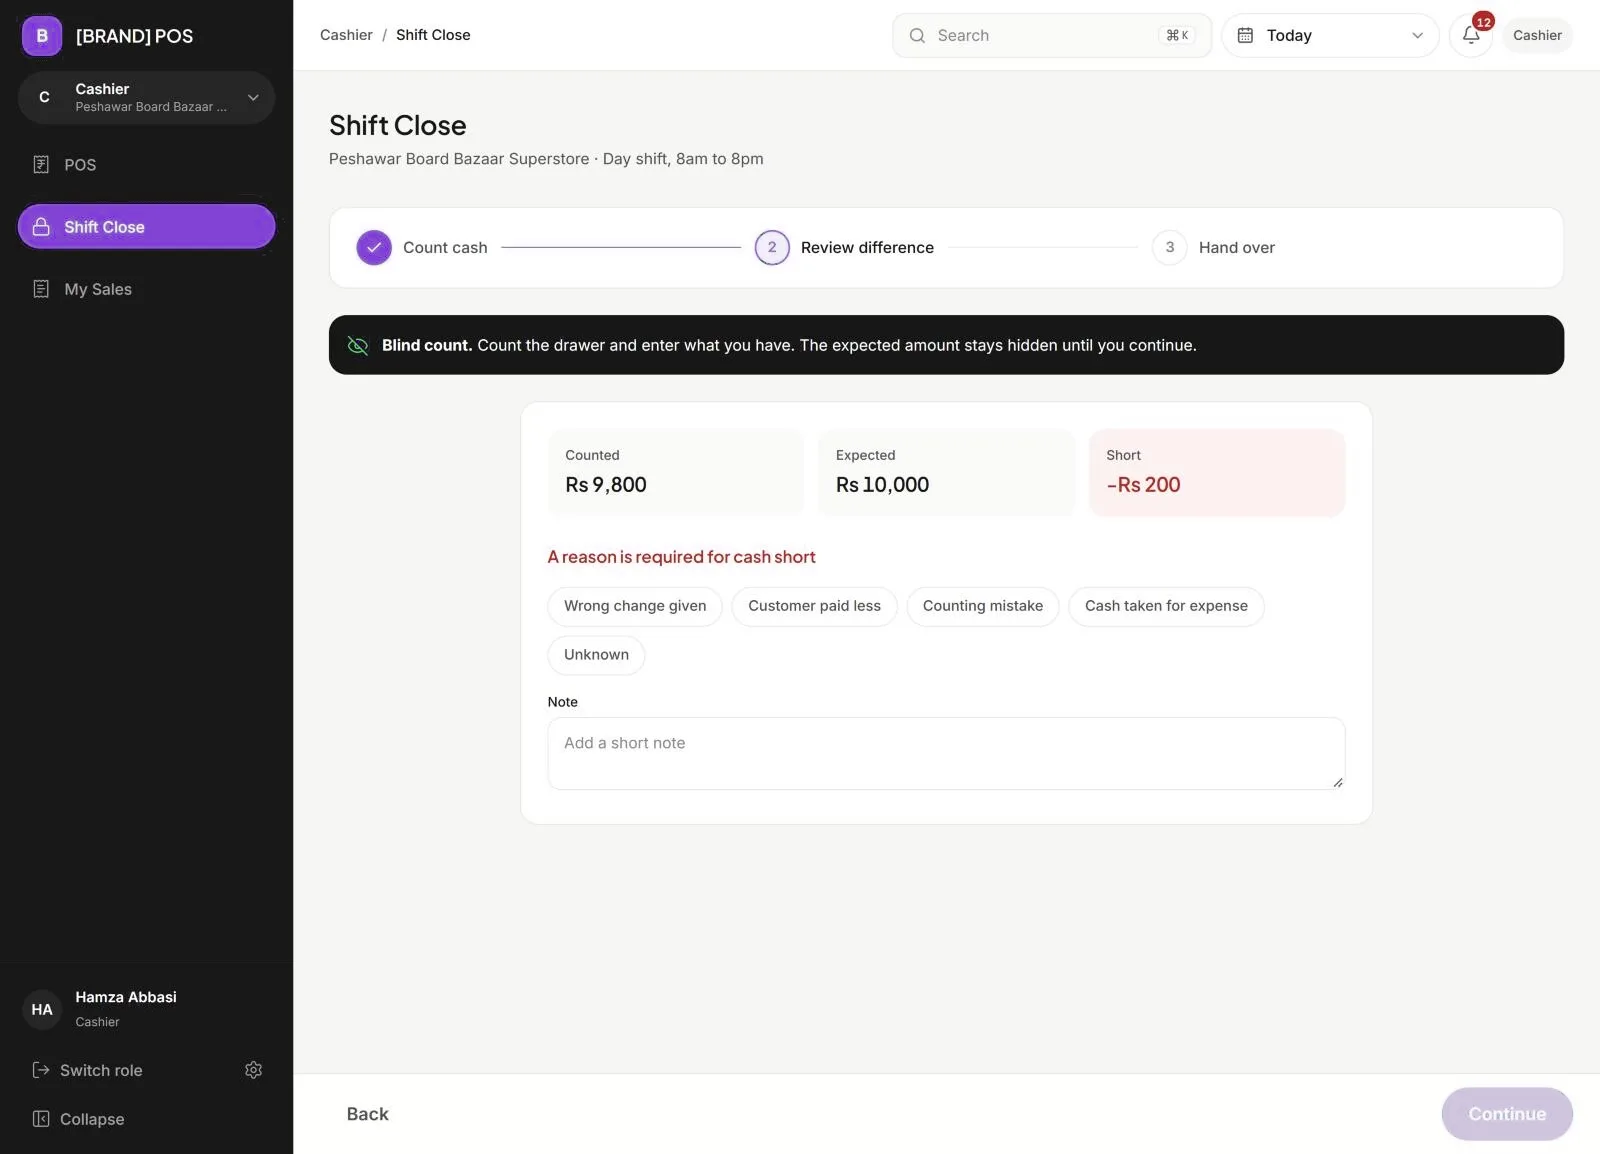
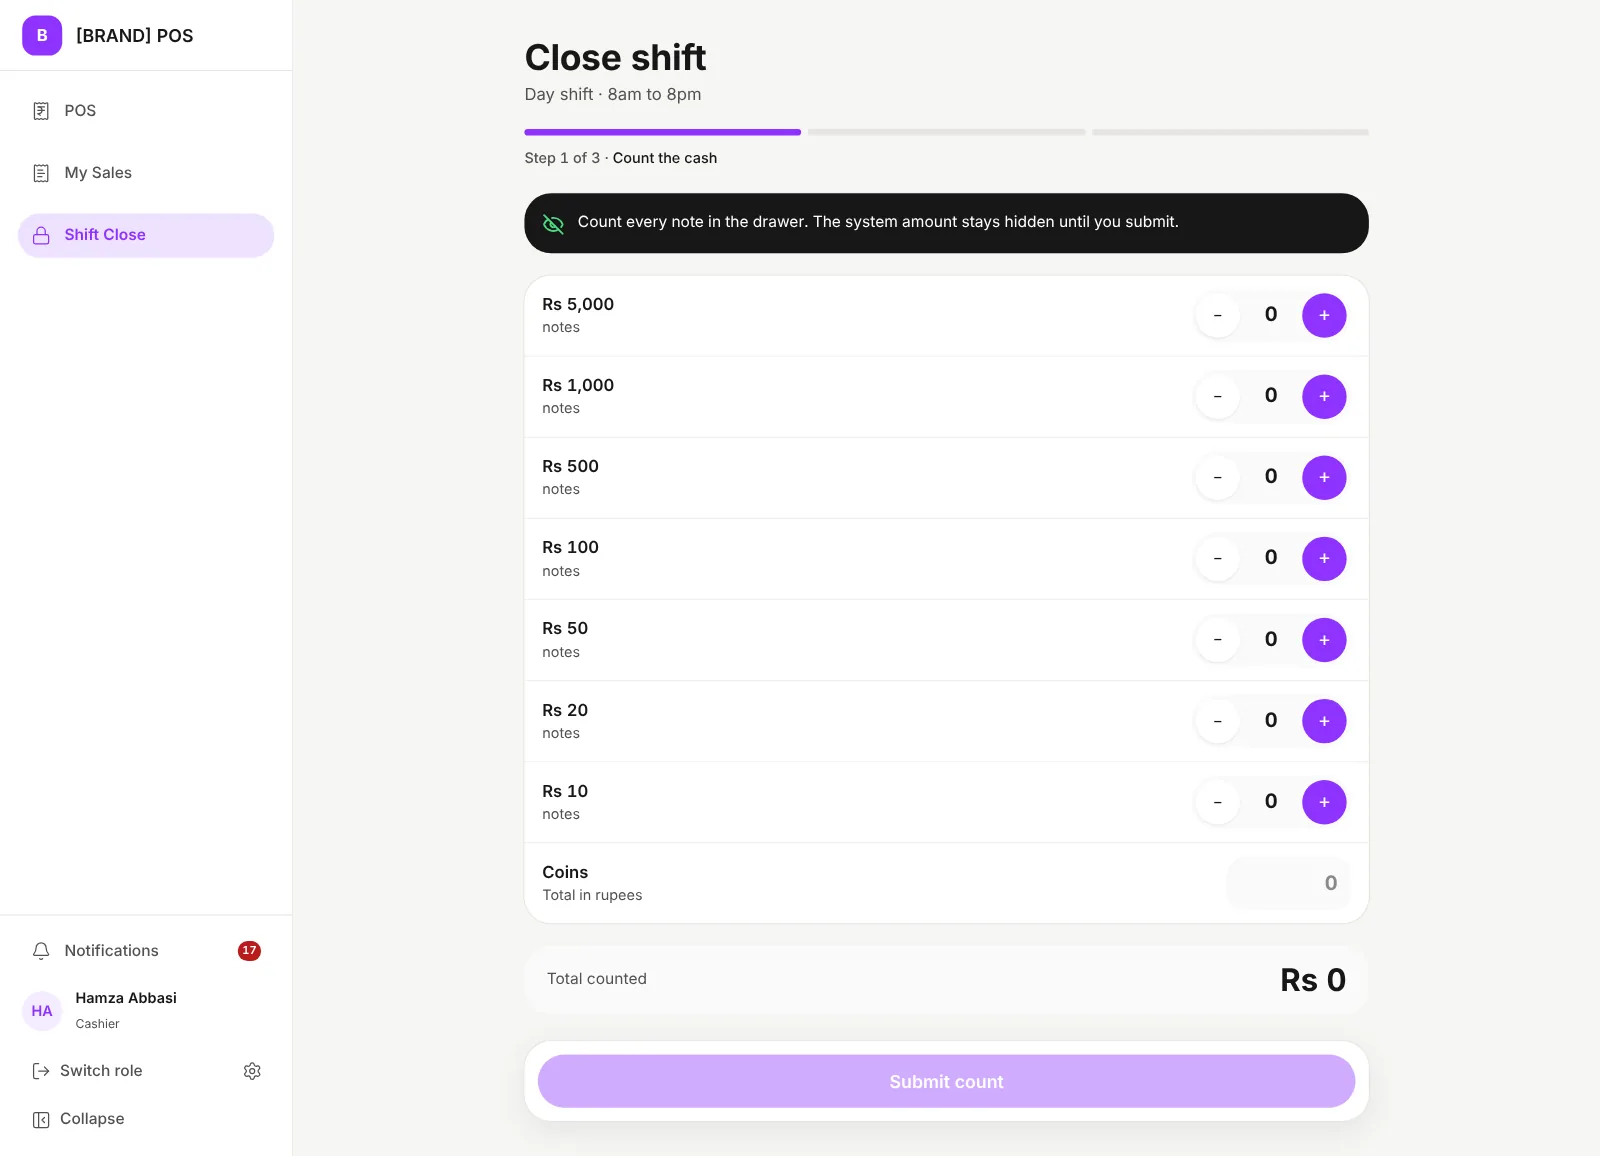
Replace app demo and feature screenshots with the new POS design
Owner, Shop Manager and Cashier screens recaptured from the current POS build;
demo hotspots follow the new sidebars (cashier POS uses the collapsed icon bar).

Claude-Session: https://claude.ai/code/session_01DwXydQsLFGht4vooKXrWdi

diff --git a/lib/appdemo.ts b/lib/appdemo.ts
@@ -1,55 +1,83 @@
-// Interactive app demo: real screens from the Figma Make POS.
-// Each screen is a full 1440x1040 capture. Sidebar hotspots are in CSS px of that frame
-// and are converted to percentages, so only the sidebar tabs are clickable.
+// Interactive app demo: real screens from the current POS (new design).
+// Each screen is a full 1440x1040 capture. Sidebar hotspots are CSS px of that frame
+// and are converted to percentages, so only the sidebar items are clickable.
 
 export const FRAME = { w: 1440, h: 1040 };
 
-export type AppKey = "owner" | "cashier";
-export type DemoScreen = { key: string; label: string; img: string; y: number; title: string; desc: string; to: string };
+export type AppKey = "owner" | "manager" | "cashier";
+export type DemoScreen = { key: string; label: string; img: string; title: string; desc: string; to: string };
+type Rect = [x: number, y: number, w: number, h: number];
 
-// Sidebar item geometry (same for every screen of an app)
-const NAV_X = 16, NAV_W = 232, NAV_H = 40;
-export const hotspot = (y: number) => ({
-  left: `${(NAV_X / FRAME.w) * 100}%`,
+export const hotspot = ([x, y, w, h]: Rect) => ({
+  left: `${(x / FRAME.w) * 100}%`,
   top: `${(y / FRAME.h) * 100}%`,
-  width: `${(NAV_W / FRAME.w) * 100}%`,
-  height: `${(NAV_H / FRAME.h) * 100}%`,
+  width: `${(w / FRAME.w) * 100}%`,
+  height: `${(h / FRAME.h) * 100}%`,
 });
+
+// Where each sidebar item sits (measured from the live POS at 1440x1040).
+const row = (y: number): Rect => [16, y, 231, 40];
+export const NAV: Record<AppKey, Record<string, Rect>> = {
+  owner: {
+    dashboard: row(116), shops: row(160), people: row(256), payroll: row(300), expenses: row(344),
+    audit: row(440), reports: row(484), whatsapp: row(528), partners: row(572), settings: row(628),
+  },
+  manager: {
+    today: row(80), receive: row(136), inventory: row(192), count: row(248), staff: row(304), expenses: row(360), shifts: row(416),
+  },
+  cashier: { pos: row(80), mysales: row(136), shift: row(192) },
+};
+// The cashier POS screen shows a collapsed icon sidebar, so its hotspots are small icons.
+export const NAV_ON: Partial<Record<AppKey, Record<string, Record<string, Rect>>>> = {
+  cashier: { pos: { pos: [16, 80, 40, 40], mysales: [16, 124, 40, 40], shift: [16, 168, 40, 40] } },
+};
 
 export const APPS: Record<AppKey, DemoScreen[]> = {
   owner: [
-    { key: "dashboard", label: "Dashboard", img: "/app/o_dashboard.webp", y: 164, title: "Owner Dashboard",
-      desc: "Today's total sale across all 150 shops, purchases, cash short and shops not yet closed, on one screen. Day and night shift are split, and every alert that needs you is waiting on the right.", to: "/features/dashboard/" },
-    { key: "shops", label: "Shops", img: "/app/o_shops.webp", y: 208, title: "Every Shop, Ranked",
-      desc: "All 150 shops ranked by today's sale, with region, change from yesterday, cash short and closing status. Filter by North, Central or South, or see only shops that haven't closed.", to: "/portals/owner/" },
-    { key: "sales", label: "Sales", img: "/app/o_sales.webp", y: 304, title: "Sales",
-      desc: "Chain-wide sales by day, shift and region: today, the last 7 and 30 days, the average per shop, and the top and bottom five shops of the day.", to: "/features/dashboard/" },
-    { key: "purchasing", label: "Purchasing", img: "/app/o_purchasing.webp", y: 348, title: "Purchasing",
-      desc: "Every purchase bill from every shop, checked against the network average rate. Bills above benchmark and bills without an invoice photo are counted and flagged.", to: "/features/purchases/" },
-    { key: "inventory", label: "Inventory & Expiry", img: "/app/o_inventory.webp", y: 392, title: "Inventory & Expiry",
-      desc: "Batches expiring across the chain, earliest first, with the shop, quantity and value at cost, so shops sell them before they expire instead of writing them off.", to: "/features/stock/" },
-    { key: "suppliers", label: "Suppliers", img: "/app/o_suppliers.webp", y: 436, title: "Suppliers",
-      desc: "Approved suppliers with their city and phone, what the shops still owe them, and how many payments are overdue.", to: "/features/purchases/" },
-    { key: "staff", label: "Staff & Payroll", img: "/app/o_staff.webp", y: 532, title: "Staff & Payroll",
-      desc: "Staff across all shops: who is on duty now, who is on leave, salaries pending, and the expense approvals waiting for you.", to: "/features/staff/" },
-    { key: "expenses", label: "Expenses", img: "/app/o_expenses.webp", y: 576, title: "Expenses",
-      desc: "Shop expenses above Rs 10,000 need head office approval before they count. Expenses without a receipt are flagged.", to: "/features/expenses/" },
-    { key: "audit", label: "Audit", img: "/app/o_audit.webp", y: 672, title: "Audit Overview",
-      desc: "Every shop gets an audit score. Missing invoice photos, cash short, prices above benchmark and stock issues are flagged, so the weakest shops come first.", to: "/features/audit/" },
-    { key: "reports", label: "Reports", img: "/app/o_reports.webp", y: 716, title: "Monthly Reports",
-      desc: "One report per shop, generated automatically on the 27th for the month, with an audit score for every shop. Export them all in one click.", to: "/features/whatsapp/" },
-    { key: "whatsapp", label: "WhatsApp Reports", img: "/app/o_whatsapp.webp", y: 760, title: "WhatsApp Reports",
-      desc: "At 8 PM and 8 AM the owner gets the day's summary on WhatsApp, in English or Urdu: total sale, top and lowest shops, cash short and shops not closed.", to: "/features/whatsapp/" },
-    { key: "settings", label: "Settings", img: "/app/o_settings.webp", y: 816, title: "Rules Set by Head Office",
-      desc: "Head office sets the rules every shop follows: expense approval limit, price benchmark tolerance, void approvals, salary payment and the low-stock threshold.", to: "/features/pricing/" },
+    { key: "dashboard", label: "Dashboard", img: "/app/o_dashboard.webp", title: "Owner Dashboard",
+      desc: "Today's sale across all 150 shops, split by day and night shift, with cash short, shifts not closed, approvals waiting and the average audit score on one screen. Sales by region and the alerts that need you sit right below.", to: "/features/dashboard/" },
+    { key: "shops", label: "Shops", img: "/app/o_shops.webp", title: "Every Shop, Ranked",
+      desc: "All 150 shops ranked by today's sale. Filter by cash short or not closed, and open any shop to see its sale, team, problems and last 14 days.", to: "/portals/owner/" },
+    { key: "people", label: "People", img: "/app/o_people.webp", title: "People",
+      desc: "Everyone across the chain: who is on duty now, who is on leave, and which shops are short of staff. Hiring, transfers and leave requests wait here for your approval.", to: "/features/staff/" },
+    { key: "payroll", label: "Payroll", img: "/app/o_payroll.webp", title: "Payroll",
+      desc: "Salaries for the month, shop by shop. Managers pay in cash or bank and staff confirm by SMS code, so you can see what's paid, what's still to pay and which shops haven't closed payroll.", to: "/features/staff/" },
+    { key: "expenses", label: "Expenses", img: "/app/o_expenses.webp", title: "Expenses",
+      desc: "Shop expenses above Rs 10,000 need head office approval before they count. Approve or reject in one tap, and see every recent expense with its status.", to: "/features/expenses/" },
+    { key: "audit", label: "Audit", img: "/app/o_audit.webp", title: "Audit Overview",
+      desc: "Every shop gets an audit score. The lowest scores and the most serious problems, like missing invoice photos, cash short and prices above benchmark, come first.", to: "/features/audit/" },
+    { key: "reports", label: "Reports", img: "/app/o_reports.webp", title: "Monthly Reports",
+      desc: "One report per shop for the month, with an audit score and the red flags behind it. Download it or send it in one click.", to: "/features/whatsapp/" },
+    { key: "whatsapp", label: "WhatsApp Reports", img: "/app/o_whatsapp.webp", title: "WhatsApp Reports",
+      desc: "Every day at 8 PM and 8 AM the owner gets the summary on WhatsApp, in English or Urdu: total sale, top and lowest shops, cash short and shops not closed.", to: "/features/whatsapp/" },
+    { key: "partners", label: "Partners & shares", img: "/app/o_partners.webp", title: "Partners & Shares",
+      desc: "Shops with more than one owner: each partner's share, their shops and their part of the profit. Every partner gets their own login and sees only their own share.", to: "/portals/owner/" },
+    { key: "settings", label: "Settings", img: "/app/o_settings.webp", title: "Settings",
+      desc: "Your profile, light or dark mode, the brand colour, language and the notification rules head office sets for every shop. Changes save straight away.", to: "/features/pricing/" },
+  ],
+  manager: [
+    { key: "today", label: "Today", img: "/app/m_today.webp", title: "Shop Manager · Today",
+      desc: "The manager's day at a glance: today's sale by shift, low stock, items close to expiry, staff present and anything waiting on them, with quick actions to receive stock or add an expense.", to: "/features/stock/" },
+    { key: "receive", label: "Receive Purchase", img: "/app/m_receive.webp", title: "Receive Purchase",
+      desc: "Stock comes only from approved suppliers. Pick who delivered, add the items and a photo of the invoice, or record a cash payout to a supplier.", to: "/features/purchases/" },
+    { key: "inventory", label: "Inventory", img: "/app/m_inventory.webp", title: "Stock & Expiry",
+      desc: "All items in the shop with stock left, low stock and expiry. Open an item to see its batches, earliest expiry first, so it's sold before it has to be written off.", to: "/features/stock/" },
+    { key: "count", label: "Stock Count", img: "/app/m_count.webp", title: "Blind Stock Count",
+      desc: "Staff count each item on the shelf and enter how many they see. The system number stays hidden until they submit, so the count is honest.", to: "/features/stock/" },
+    { key: "staff", label: "Staff & Leave", img: "/app/m_staff.webp", title: "Staff & Leave",
+      desc: "Mark attendance for the shop team in one tap, handle leave requests and see salaries.", to: "/features/staff/" },
+    { key: "expenses", label: "Expenses", img: "/app/m_expenses.webp", title: "Shop Expenses",
+      desc: "Add an expense with a photo of the receipt. Big expenses go to head office for approval before they count.", to: "/features/expenses/" },
+    { key: "shifts", label: "Shift Reports", img: "/app/m_shifts.webp", title: "Shift Reports",
+      desc: "Every day and night shift for the last 14 days, with the sale and whether the cash matched.", to: "/features/shift/" },
   ],
   cashier: [
-    { key: "pos", label: "POS", img: "/app/c_pos.webp", y: 128, title: "POS Billing",
-      desc: "Scan a barcode or tap a popular item. Item names show in English and Urdu, prices are locked by head office, and the total includes GST. The customer pays by cash, card or QR.", to: "/features/billing/" },
-    { key: "shift", label: "Shift Close", img: "/app/c_shift.webp", y: 184, title: "Blind Shift Close",
+    { key: "pos", label: "POS", img: "/app/c_pos.webp", title: "POS Billing",
+      desc: "Scan a barcode or type an item name. Items show in English and Urdu, prices are set by head office and GST is included. The customer pays by cash, card or QR.", to: "/features/billing/" },
+    { key: "mysales", label: "My Sales", img: "/app/c_sales.webp", title: "My Sales",
+      desc: "Every bill the cashier made this shift, with cash and card totals. Tap a bill to see the receipt or return it; a return needs the manager's PIN.", to: "/features/returns/" },
+    { key: "shift", label: "Shift Close", img: "/app/c_shift.webp", title: "Blind Shift Close",
       desc: "The cashier counts the drawer note by note before seeing what's expected. If cash is short, a reason is required before the shift can be handed over.", to: "/features/shift/" },
-    { key: "mysales", label: "My Sales", img: "/app/c_sales.webp", y: 240, title: "My Sales",
-      desc: "Every bill the cashier made this shift, with cash and card totals. A return needs a reason and the manager's PIN.", to: "/features/returns/" },
   ],
 };
 
@@ -60,6 +88,6 @@ export const ONE_SYSTEM: { tab: string; app: AppKey; start: string }[] = [
 ];
 export const THREE_JOBS: { tab: string; app: AppKey; start: string; heading: string }[] = [
   { tab: "Billing", app: "cashier", start: "pos", heading: "Billing & Checkout" },
-  { tab: "Stock", app: "owner", start: "inventory", heading: "Stock & Expiry" },
+  { tab: "Stock", app: "manager", start: "inventory", heading: "Stock & Expiry" },
   { tab: "Reports", app: "owner", start: "whatsapp", heading: "Daily Reports" },
 ];

diff --git a/components/AppDemo.tsx b/components/AppDemo.tsx
@@ -1,7 +1,7 @@
 "use client";
 // Tabs + a live-feeling app frame. Only the sidebar tabs inside the screen are clickable.
 import { useState } from "react";
-import { APPS, AppKey, hotspot } from "@/lib/appdemo";
+import { APPS, AppKey, NAV, NAV_ON, hotspot } from "@/lib/appdemo";
 
 type Setup = { tab: string; app: AppKey; start: string; heading?: string };
 
@@ -12,6 +12,8 @@ export default function AppDemo({ setups, jobs }: { setups: Setup[]; jobs?: bool
   const [cur, setCur] = useState(setup.start);
 
   const screen = screens.find((s) => s.key === cur) || screens[0];
+  // Sidebar positions can change per screen (the cashier POS uses a collapsed icon bar).
+  const rects = NAV_ON[setup.app]?.[screen.key] ?? NAV[setup.app];
 
   return (
     <div className="demo-wrap">
@@ -38,7 +40,7 @@ export default function AppDemo({ setups, jobs }: { setups: Setup[]; jobs?: bool
               <button
                 key={s.key}
                 className={`demo-hot ${s.key === cur ? "on" : ""}`}
-                style={hotspot(s.y)}
+                style={hotspot(rects[s.key])}
                 onClick={() => setCur(s.key)}
                 aria-label={`Open ${s.label}`}
                 title={s.label}

diff --git a/app/globals.css b/app/globals.css
@@ -504,7 +504,7 @@ footer li a:hover{color:var(--p)}
 .demo-img{width:100%;height:100%;display:block;animation:dfade .35s ease}
 @keyframes dfade{from{opacity:.55}}
 .demo-hot{position:absolute;border-radius:999px;cursor:pointer;background:transparent;transition:background .2s,box-shadow .2s}
-.demo-hot:hover{background:rgba(255,255,255,.09)}
+.demo-hot:hover{background:rgba(142,51,255,.08)}
 .demo-hot.on{cursor:default;background:transparent}
 .demo-hot:focus-visible{outline:2px solid var(--p);outline-offset:2px}
 .demo-tip{text-align:center;color:var(--mut);font-size:13px;margin-top:16px}
